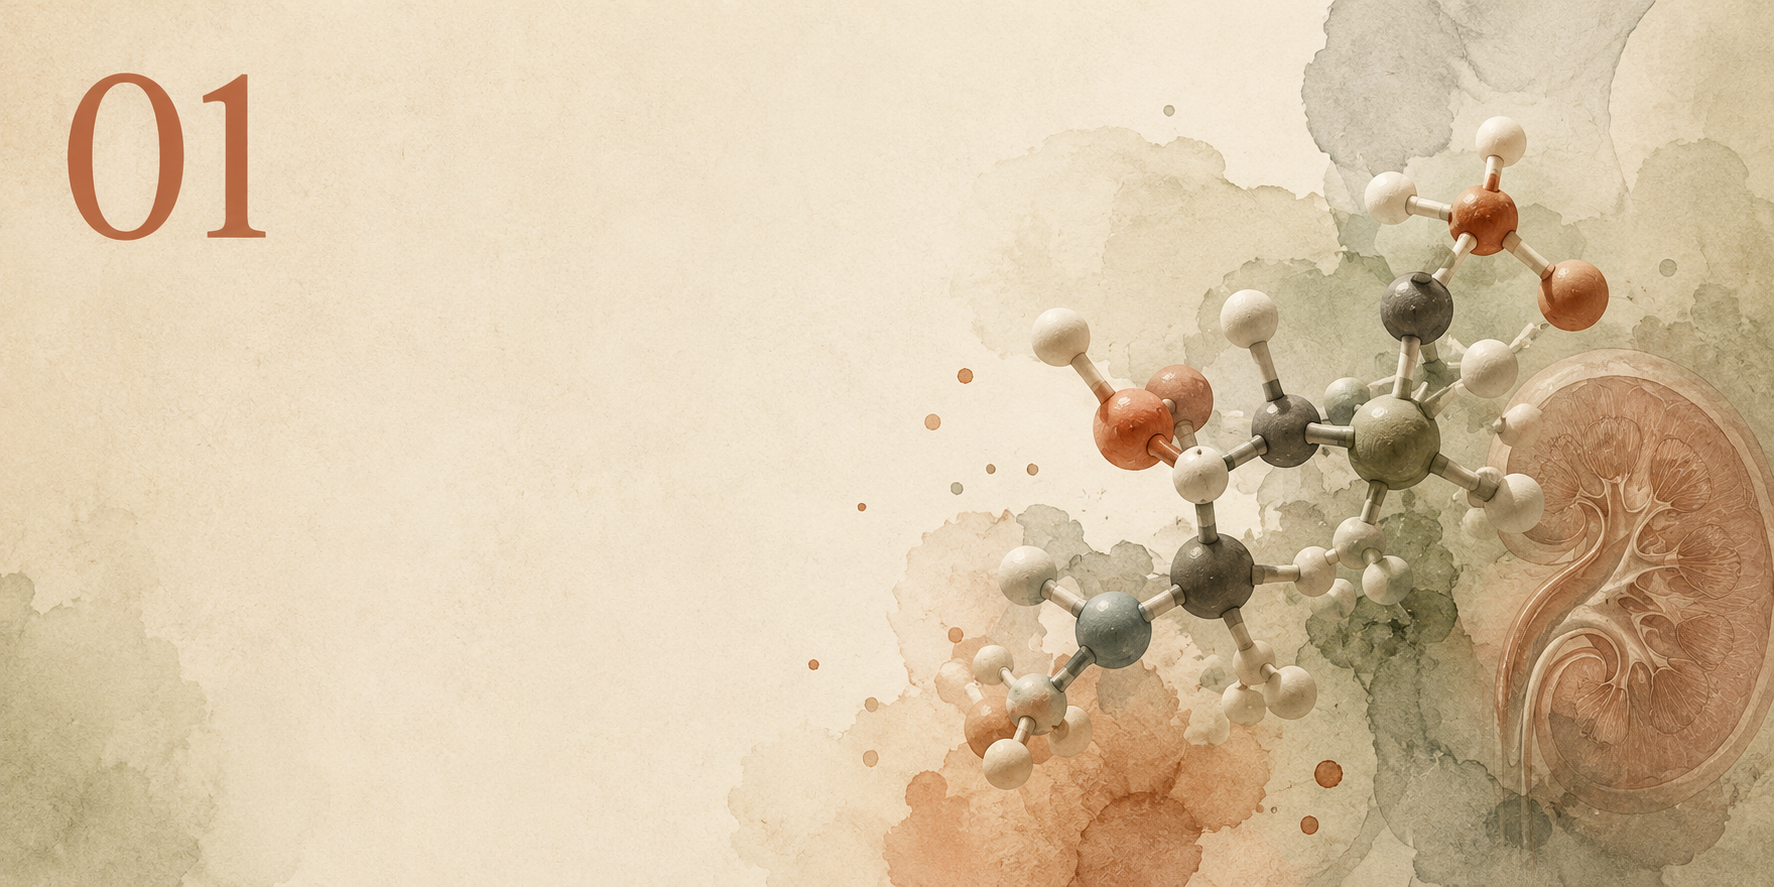
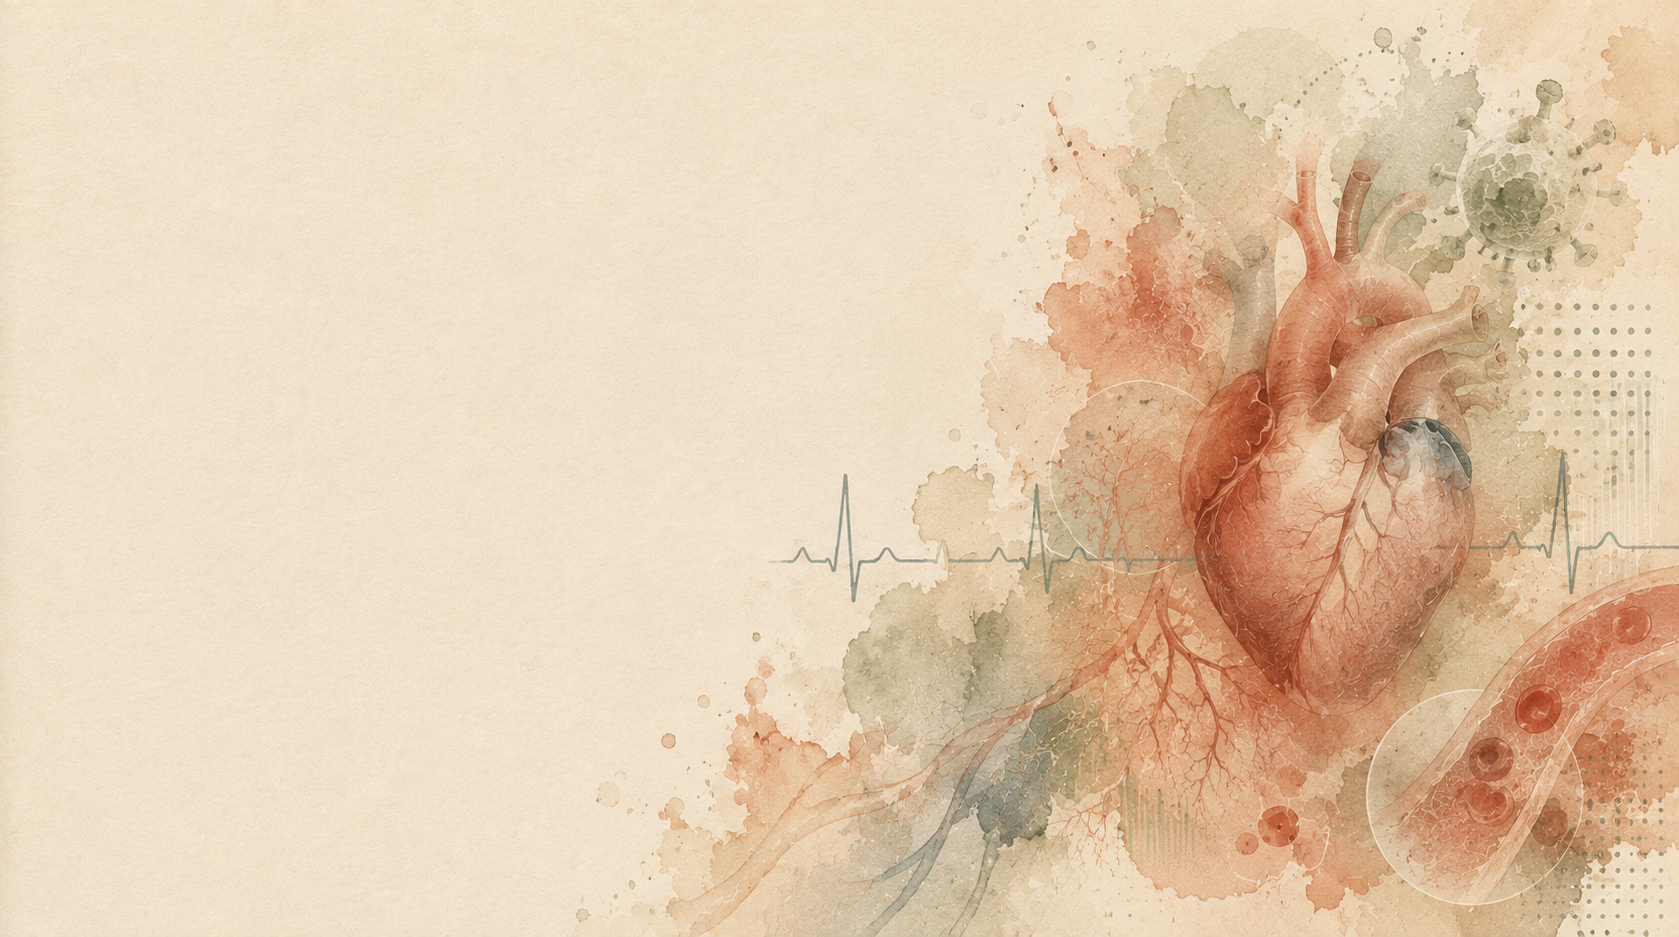
Update research CTA colors

diff --git a/style.css b/style.css
@@ -778,7 +778,7 @@ body {
   
   .pub-links a {
     font-size: 0.78rem;
-    color: #111111;
+    color: #8C9379;
     text-decoration: none;
     border-bottom: 1px solid rgba(0, 0, 0, 0.35);
     padding-bottom: 2px;
